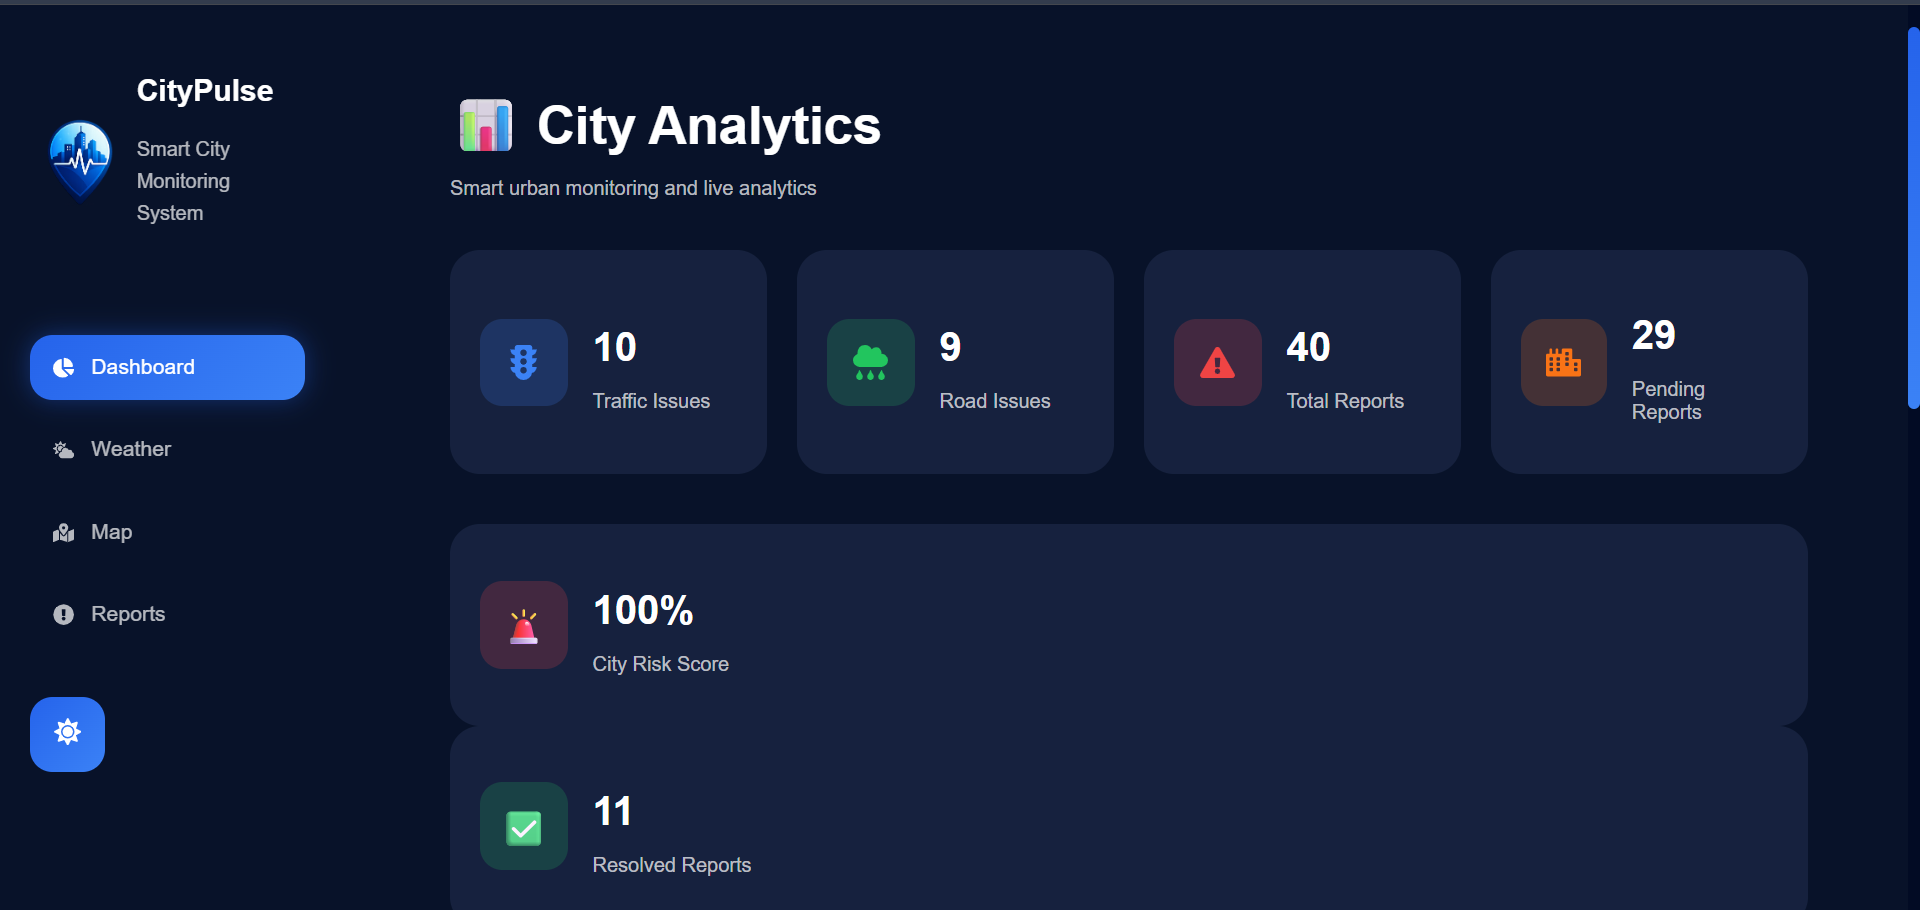
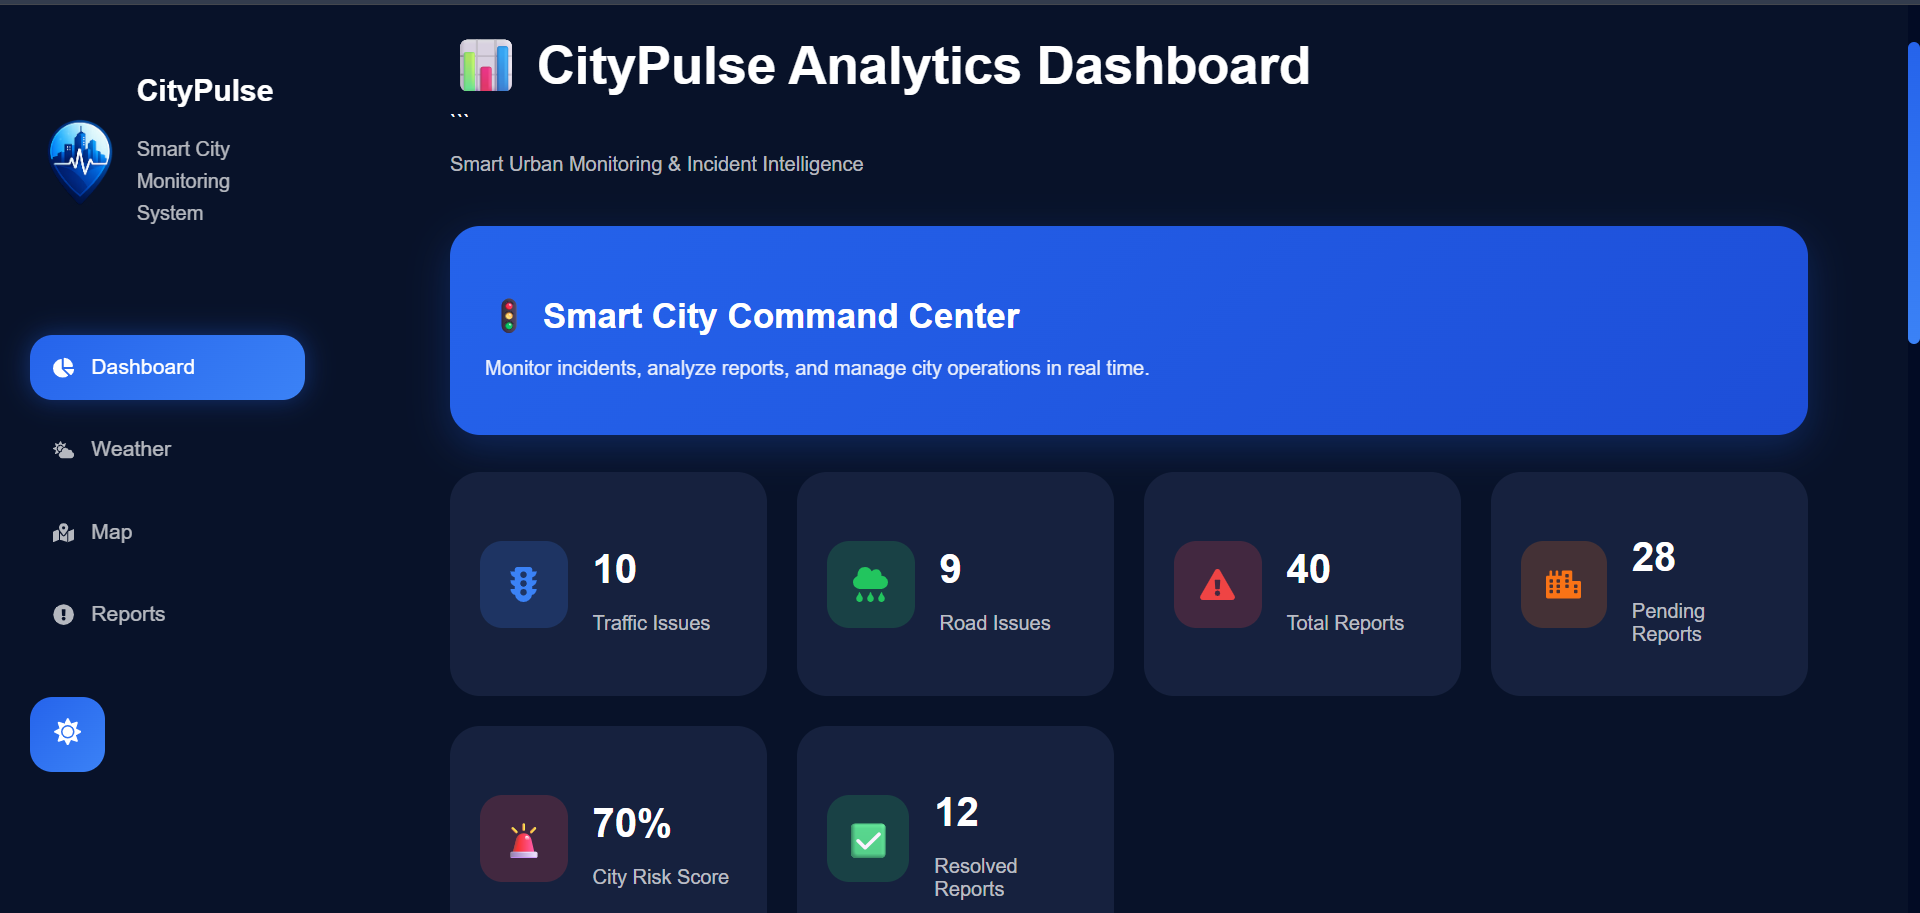
Updated ReadMe

diff --git a/README.md b/README.md
@@ -251,13 +251,15 @@ src/
 ├── components/
 │   └── Sidebar.js
 │
-├── pages/
+├── pages/  
+│   ├── AdminLogin.js
 │   ├── Dashboard.js
 │   ├── MapPage.js
 │   ├── Reports.js
 │   └── Weather.js
 │
-├── styles/
+├── styles/ 
+│   ├── AdminLogin.css
 │   ├── Dashboard.css
 │   ├── MapPage.css
 │   ├── Reports.css
@@ -324,6 +326,7 @@ npm start
 ### Frontend
 
 https://citypulse-dusky.vercel.app
+
 
 ### Backend API
 